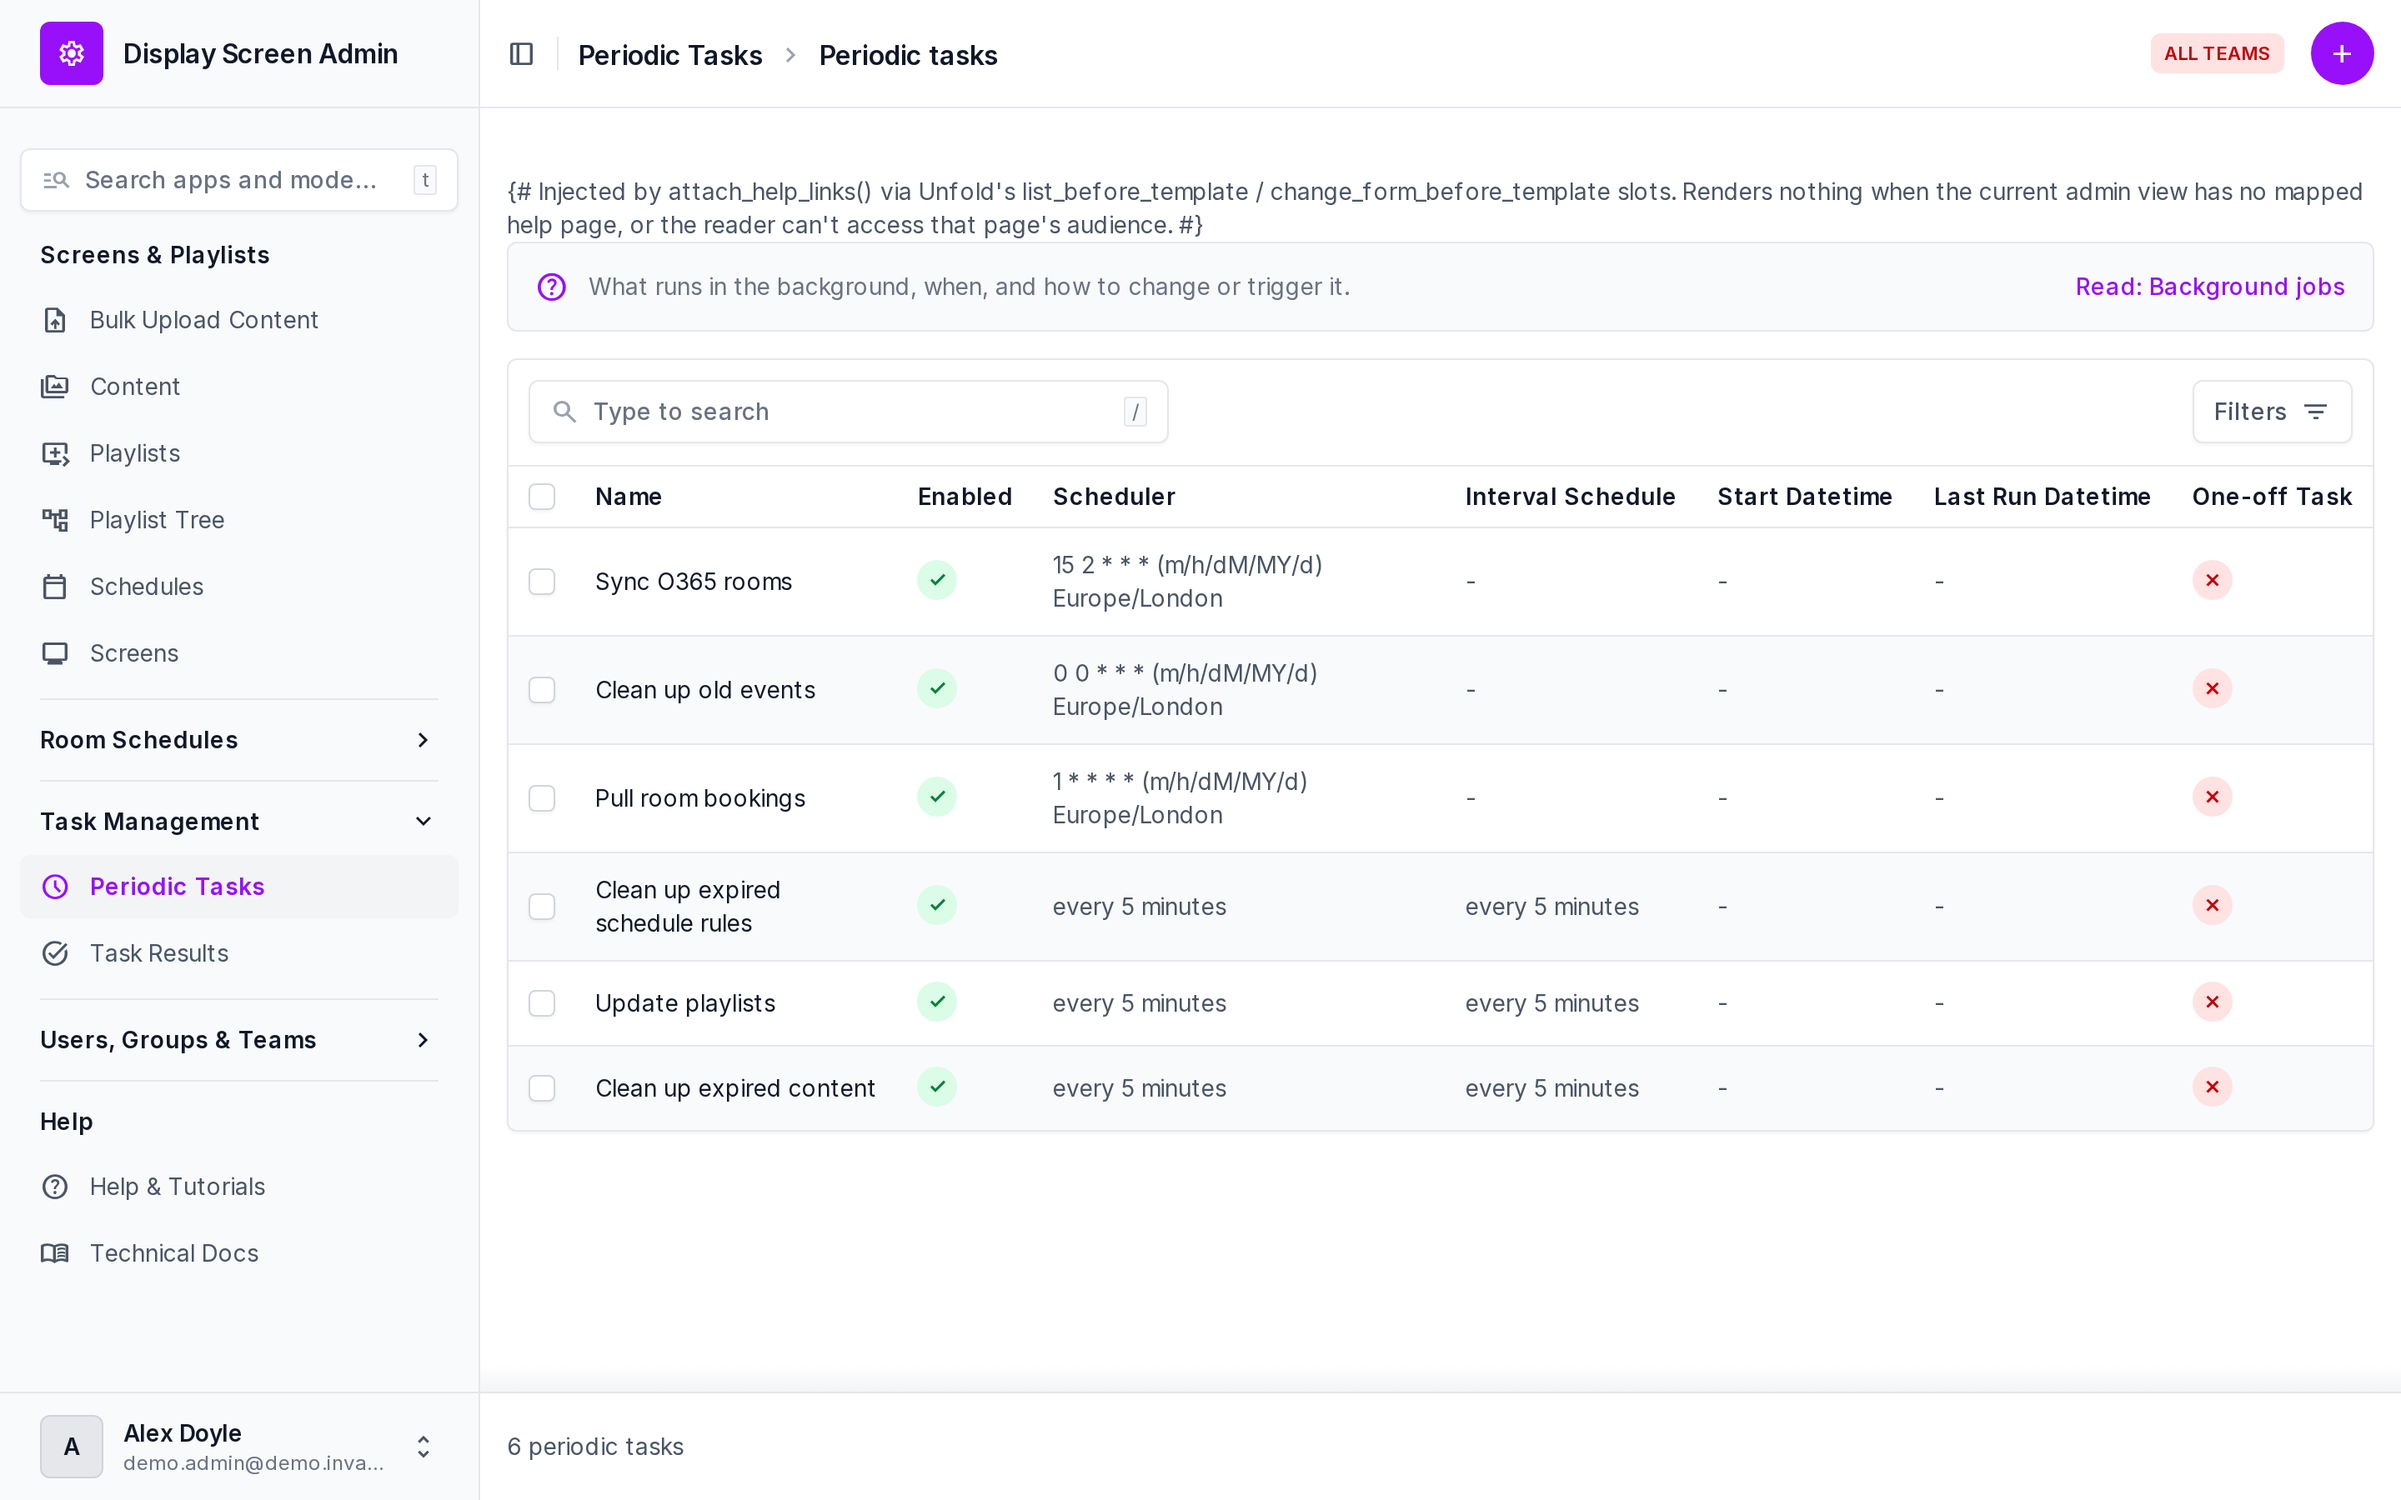
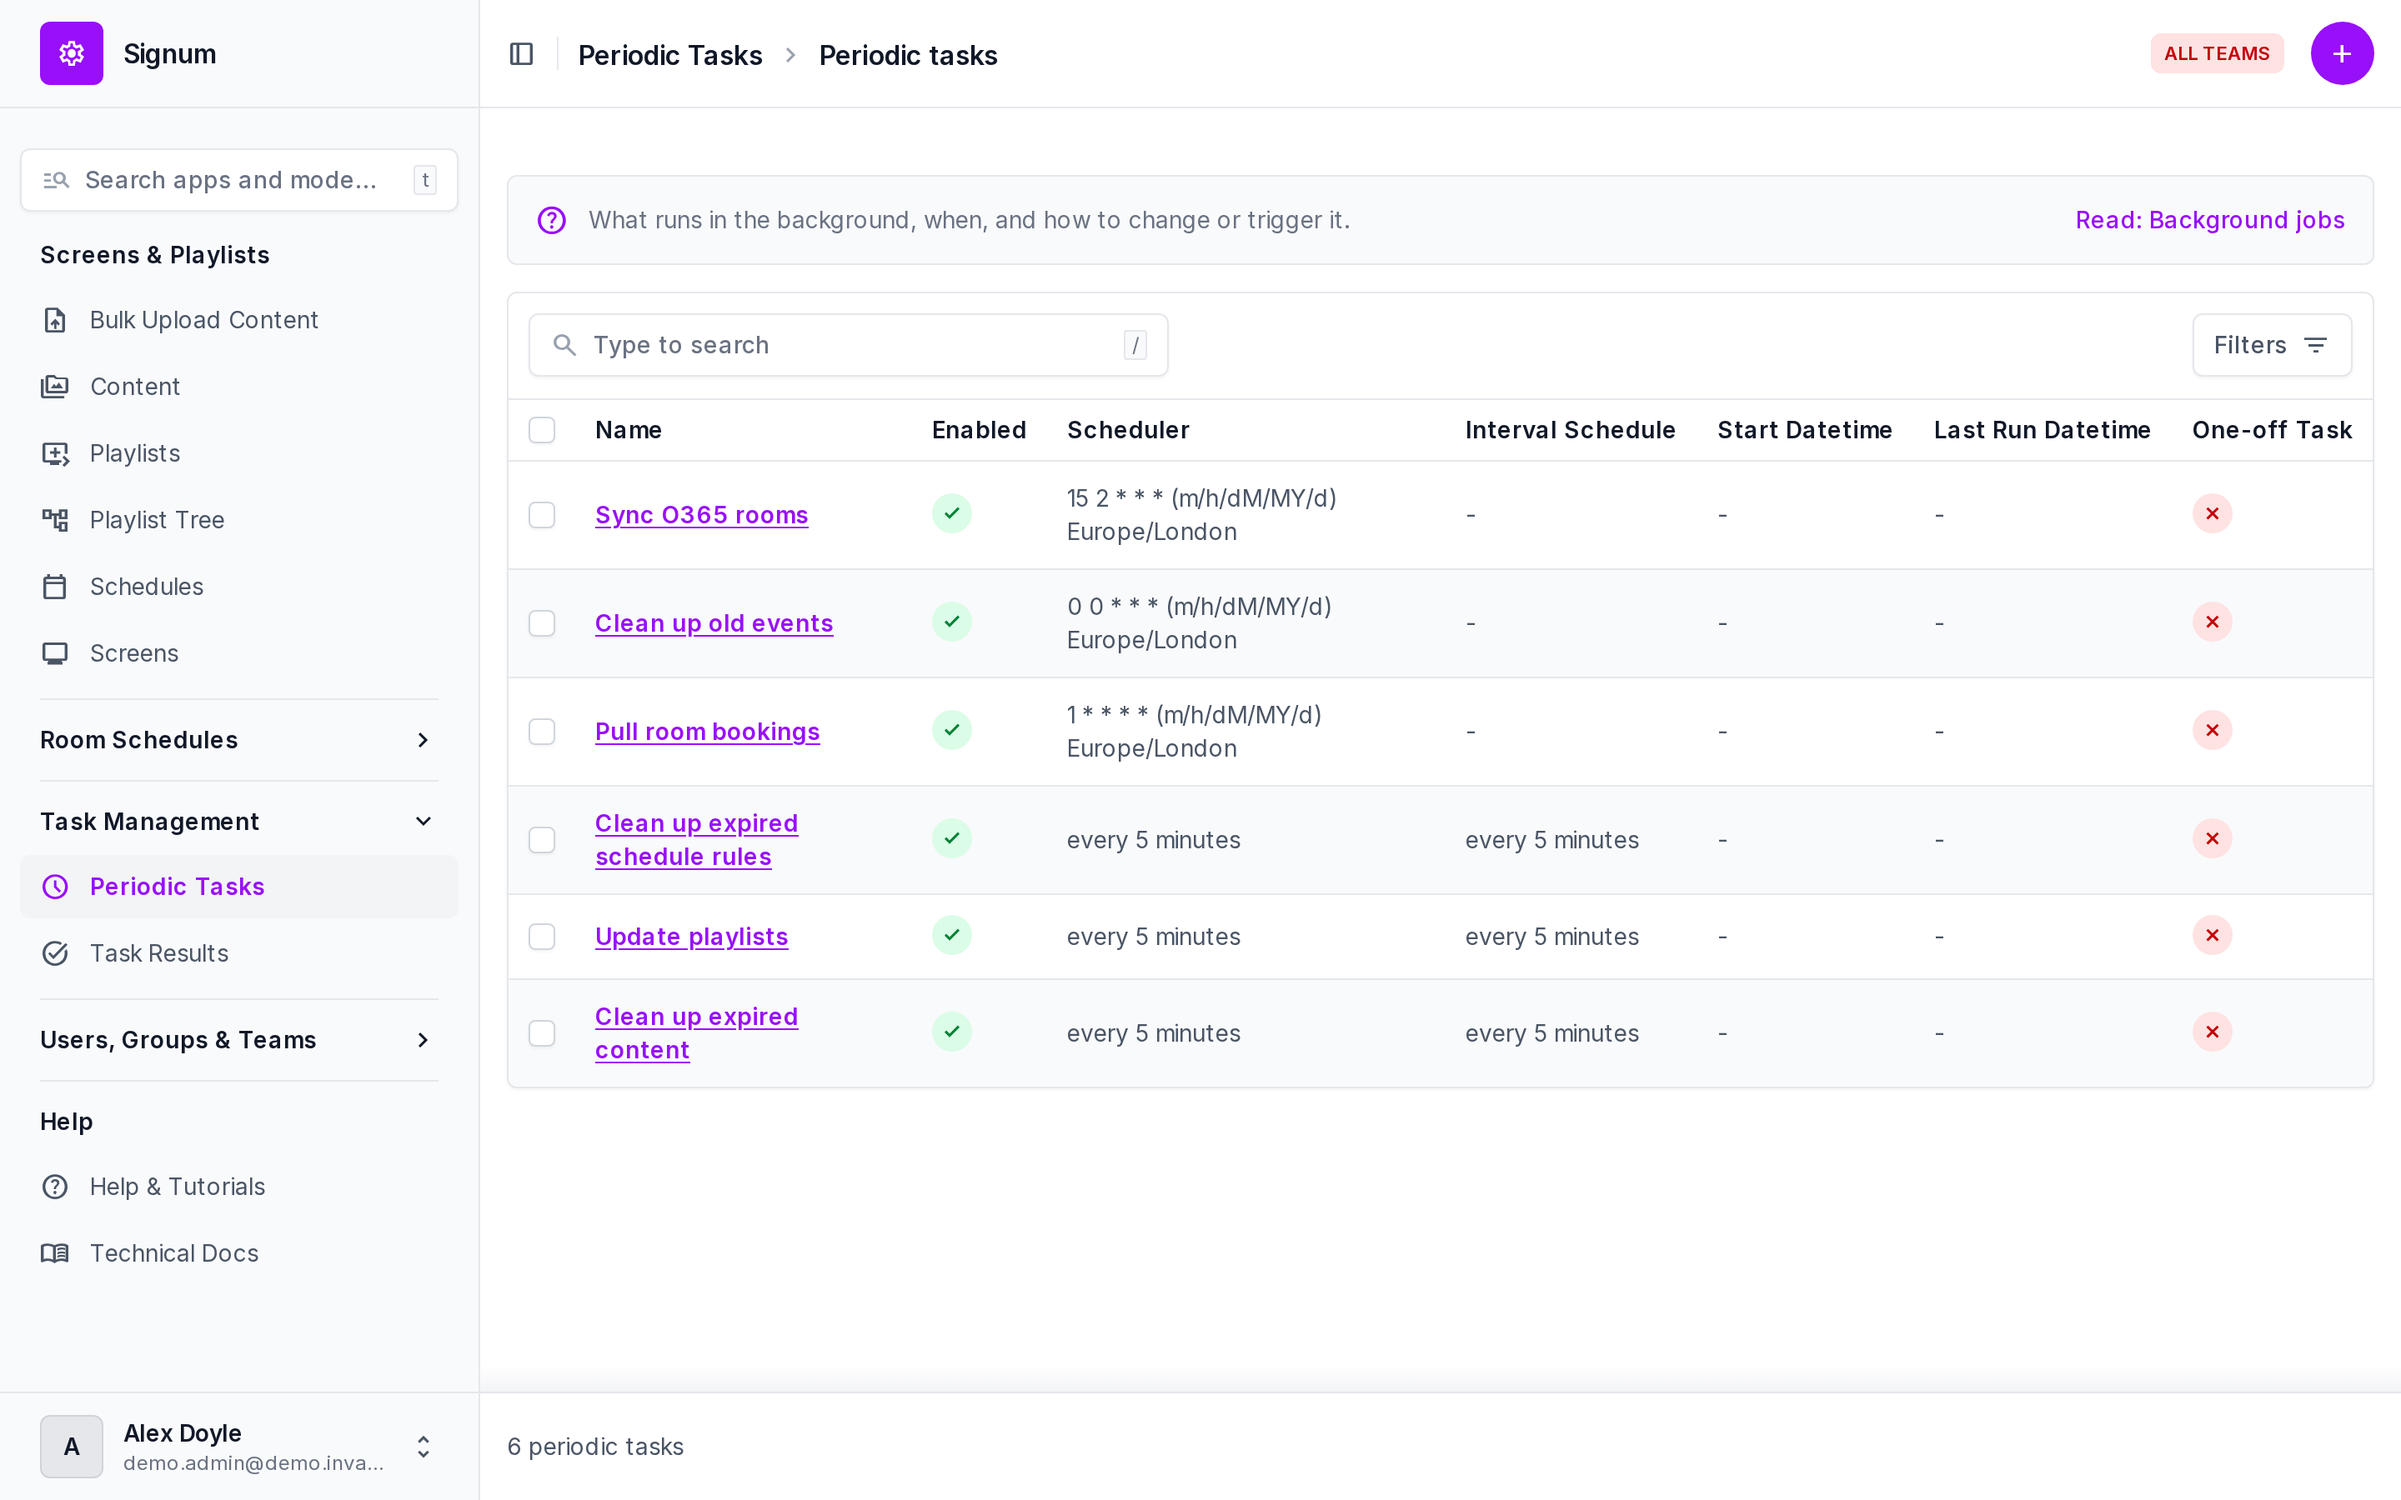
feat: enhance admin interface with custom styles and improve content documentation

diff --git a/screens/static/screens/css/admin_table_links.css b/screens/static/screens/css/admin_table_links.css
@@ -1,0 +1,39 @@
+/*
+ * Changelist tables: make the link to a record read as a link.
+ *
+ * Unfold gives that link the same colour as the surrounding text (LINK_CLASSES
+ * in unfold.templatetags.unfold_list), so on a dense table nothing marks a row
+ * as clickable except the cursor. Loaded on every admin page through
+ * UNFOLD["STYLES"], so every app's changelist matches. This only changes how
+ * the link looks — which column carries it is each ModelAdmin's business.
+ *
+ * The two selectors are the same link seen two ways: Unfold's own classes, and
+ * the `th` the first linked column is rendered as. Either alone would miss a
+ * case, and matching both costs nothing.
+ *
+ * Deliberately narrower than "every anchor in a table": the badge links in the
+ * room changelists (Grid / Foyer / Screen) carry their own colours and stay as
+ * they are, and `tbody` keeps the sortable column headers out of it.
+ */
+#result_list tbody a.text-font-important-light,
+#result_list tbody th > a {
+    color: var(--color-primary-600);
+    font-weight: 600;
+    text-decoration: underline;
+    text-underline-offset: 2px;
+}
+
+#result_list tbody a.text-font-important-light:hover,
+#result_list tbody th > a:hover {
+    color: var(--color-primary-700);
+}
+
+html.dark #result_list tbody a.text-font-important-light,
+html.dark #result_list tbody th > a {
+    color: var(--color-primary-400);
+}
+
+html.dark #result_list tbody a.text-font-important-light:hover,
+html.dark #result_list tbody th > a:hover {
+    color: var(--color-primary-300);
+}

diff --git a/advertising/base_settings.py b/advertising/base_settings.py
@@ -11,6 +11,7 @@ https://docs.djangoproject.com/en/2.2/ref/settings/
 """
 
 import os
+from django.templatetags.static import static
 from django.urls import reverse_lazy
 
 # Build paths inside the project like this: os.path.join(BASE_DIR, ...)
@@ -101,6 +102,9 @@ UNFOLD = {
     "SITE_URL": "/",
     "SHOW_HISTORY": True,
     "SHOW_VIEW_ON_SITE": True,
+    # Loaded on every admin page. Lambda because static() needs the app registry,
+    # which isn't ready while this module is being imported.
+    "STYLES": [lambda request: static("screens/css/admin_table_links.css")],
     "SIDEBAR": {
         "show_search": True,
         "show_all_applications": False,

diff --git a/screens/admin.py b/screens/admin.py
@@ -228,6 +228,9 @@ class PlaylistListFilter(admin.SimpleListFilter):
 class SourceDisplay(HideChangeFormDeleteMixin, TeamScopedAdminMixin, ModelAdmin):
     readonly_fields = ('image_preview',)
     list_display = ('thumbnail', 'name', 'show_type', 'resolution', 'created_by', 'playlist_names', 'show_teams', 'created_at', 'valid_from', 'expires_at')
+    # Without this the link to the change form lands on the first column — the
+    # thumbnail — which reads as decoration, not as the way in. Link the name.
+    list_display_links = ('name',)
     list_filter = (PlaylistListFilter, 'type')
     search_fields = ('name',)
     date_hierarchy = 'created_at'

diff --git a/helpdocs/content/users/content.md b/helpdocs/content/users/content.md
@@ -88,8 +88,9 @@ playlists it's in.
 
 ## Editing and previewing
 
-Click any item to open it. The form shows a **Preview** so you can confirm you're
-editing what you think you are.
+Click an item's **name** — the underlined text in the Name column — to open it.
+The form shows a **Preview** so you can confirm you're editing what you think you
+are.
 
 Changing the file, the type, the web address or the timing dates causes every
 playlist containing that item to refresh, so screens pick the change up within
